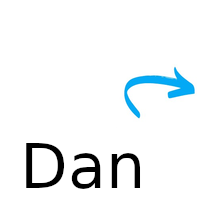
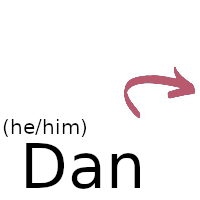
1

Changed region(s): [[0.6, 0.33, 0.99, 0.6], [0.0, 0.6, 0.45, 0.69]]

diff --git a/README.md b/README.md
@@ -1,4 +1,4 @@
-## Hi, I'm Dan 👋
+👋
 
 Click on the tiles below to find out more about my projects
 
